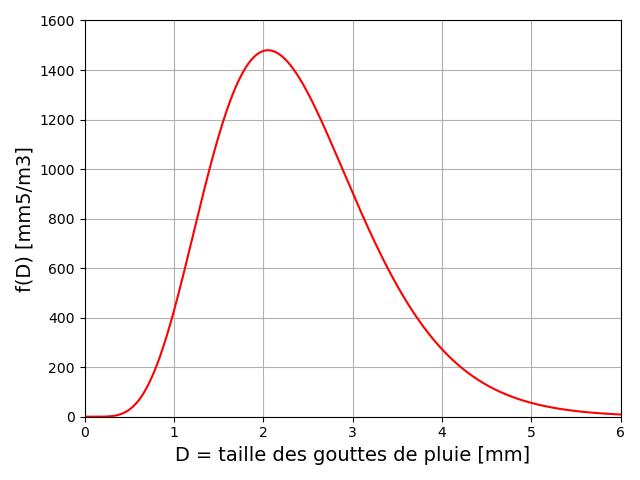
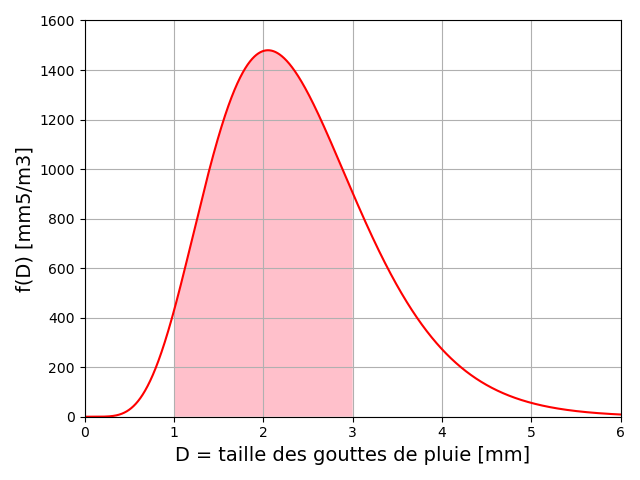
-Update the example figure in Chapter 4.

Changed region(s): [[0.25, 0.0938, 0.5625, 0.875]]

diff --git a/scripts/PH515_chap4_example.py b/scripts/PH515_chap4_example.py
@@ -9,10 +9,11 @@ def f(D):
     
     return N0*np.exp(-(4.1*R**-0.21)*D)*D**6
 
-D = np.linspace(0,6,1000)
+D = np.linspace(0,6,6000)
 
 plt.figure(0)
 plt.plot(D,f(D),'r-')
+plt.fill([1]+[D[i] for i in range(1000,3000)]+[3],[0]+[f(D[i]) for i in range(1000,3000)]+[0],'pink')
 plt.xlim([0,6])
 plt.ylim([0,1600])
 plt.xlabel("D = taille des gouttes de pluie [mm]",fontsize=14)
